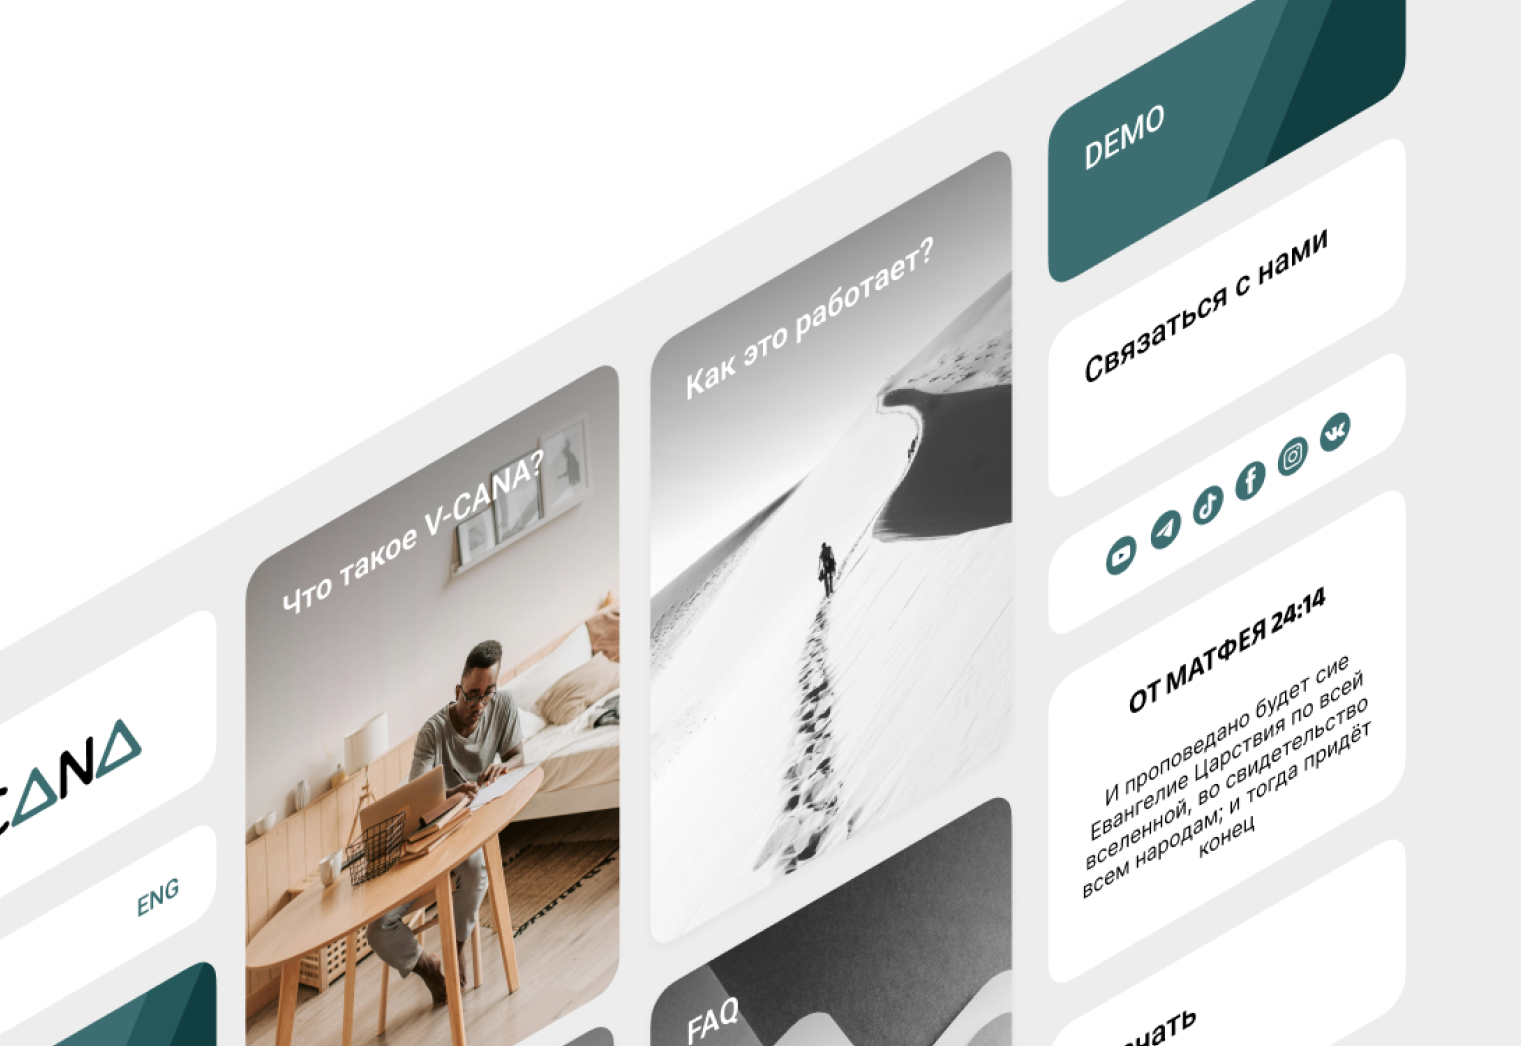
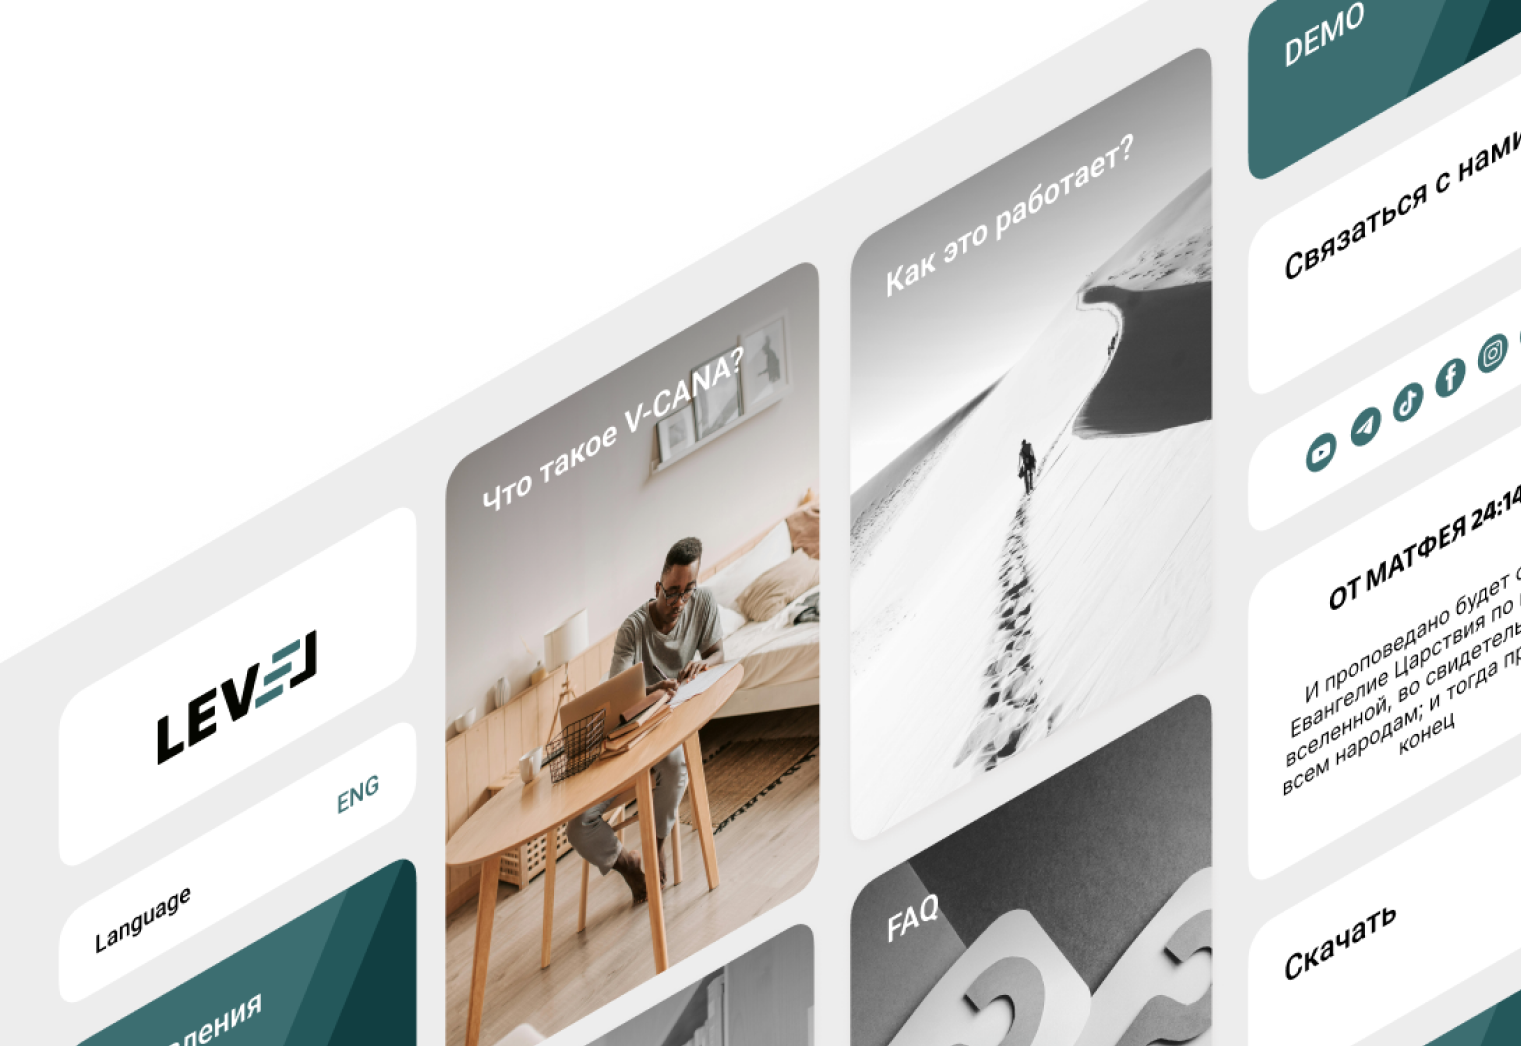
change vcana to LEVEL

diff --git a/src/components/ModalWindow.jsx b/src/components/ModalWindow.jsx
@@ -82,7 +82,8 @@ function ModalWindow({
 ModalWindow.propTypes = {
   modalIsOpen: PropTypes.bool.isRequired,
   onCloseModal: PropTypes.func.isRequired,
-  children: PropTypes.element.isRequired,
+  children: PropTypes.oneOfType([PropTypes.arrayOf(PropTypes.node), PropTypes.node])
+    .isRequired,
   label: PropTypes.string.isRequired,
 }
 
